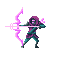
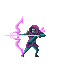
Add image scale for menu tower items

Changed region(s): [[0.0625, 0.0938, 0.7188, 0.9062]]

diff --git a/src/style.css b/src/style.css
@@ -237,6 +237,9 @@ canvas {
 .menu-item-tower {
   width: 80px;
   height: 80px;
+  overflow: hidden;
+  position: relative;
+  outline: 0.5px solid black;
 }
 
 .menu-item-tower:hover {
@@ -247,20 +250,44 @@ canvas {
   scale: 0.98;
 }
 
+.menu-item-tower__inner {
+  height: 100%;
+  width: 100%;
+  position: absolute;
+  bottom: 50%;
+  left: 50%;
+  transform: translate(-50%, 50%);
+}
+
 /* ID for menu items */
 #arcaneArcher {
   background-image: url("./assets/menu/arcaneArcherMenu.png");
   background-size: cover;
-}
 
-#fireMage {
-  background-image: url("./assets/menu/fireMageMenu.png");
-  background-size: cover;
+  height: 95px;
+  width: 95px;
+  bottom: 0;
+  transform: translate(-40%, 0);
 }
 
 #lightningMage {
   background-image: url("./assets/menu/lightningMageMenu.png");
   background-size: cover;
+
+  height: 100px;
+  width: 100px;
+  bottom: 0;
+  transform: translate(-50%, 0);
+}
+
+#fireMage {
+  background-image: url("./assets/menu/fireMageMenu.png");
+  background-size: cover;
+
+  height: 75px;
+  width: 75px;
+  bottom: 0;
+  transform: translate(-50%, 0);
 }
 
 #toggle-tiles-info {

diff --git a/src/classes/gui/MenuItemTower.ts b/src/classes/gui/MenuItemTower.ts
@@ -6,6 +6,7 @@ export class MenuItemTower {
   tower;
   container;
   element;
+  innerElement;
   selectTowerCallback;
   showTowerStats = false;
   stats;
@@ -21,15 +22,17 @@ export class MenuItemTower {
     this.container.classList.add("menu-item-container");
 
     this.element = document.createElement("div");
-    this.element.id = tower.id;
-    // todo add inner element for image which can scale.
-    // for bigger images overflow hidden from this.element
     this.element.classList.add("menu-item-tower");
+
+    this.innerElement = document.createElement("div");
+    this.innerElement.classList.add("menu-item-tower__inner");
+    this.innerElement.id = tower.id;
 
     this.element.addEventListener("click", this.clickHandler);
     this.container.addEventListener("mouseover", this.showStats);
     this.container.addEventListener("mouseleave", this.removeStats);
 
+    this.element.appendChild(this.innerElement);
     this.container.appendChild(this.element);
     dom.menuContainer.addChildToMenuTowersContainer(this.container);
 
